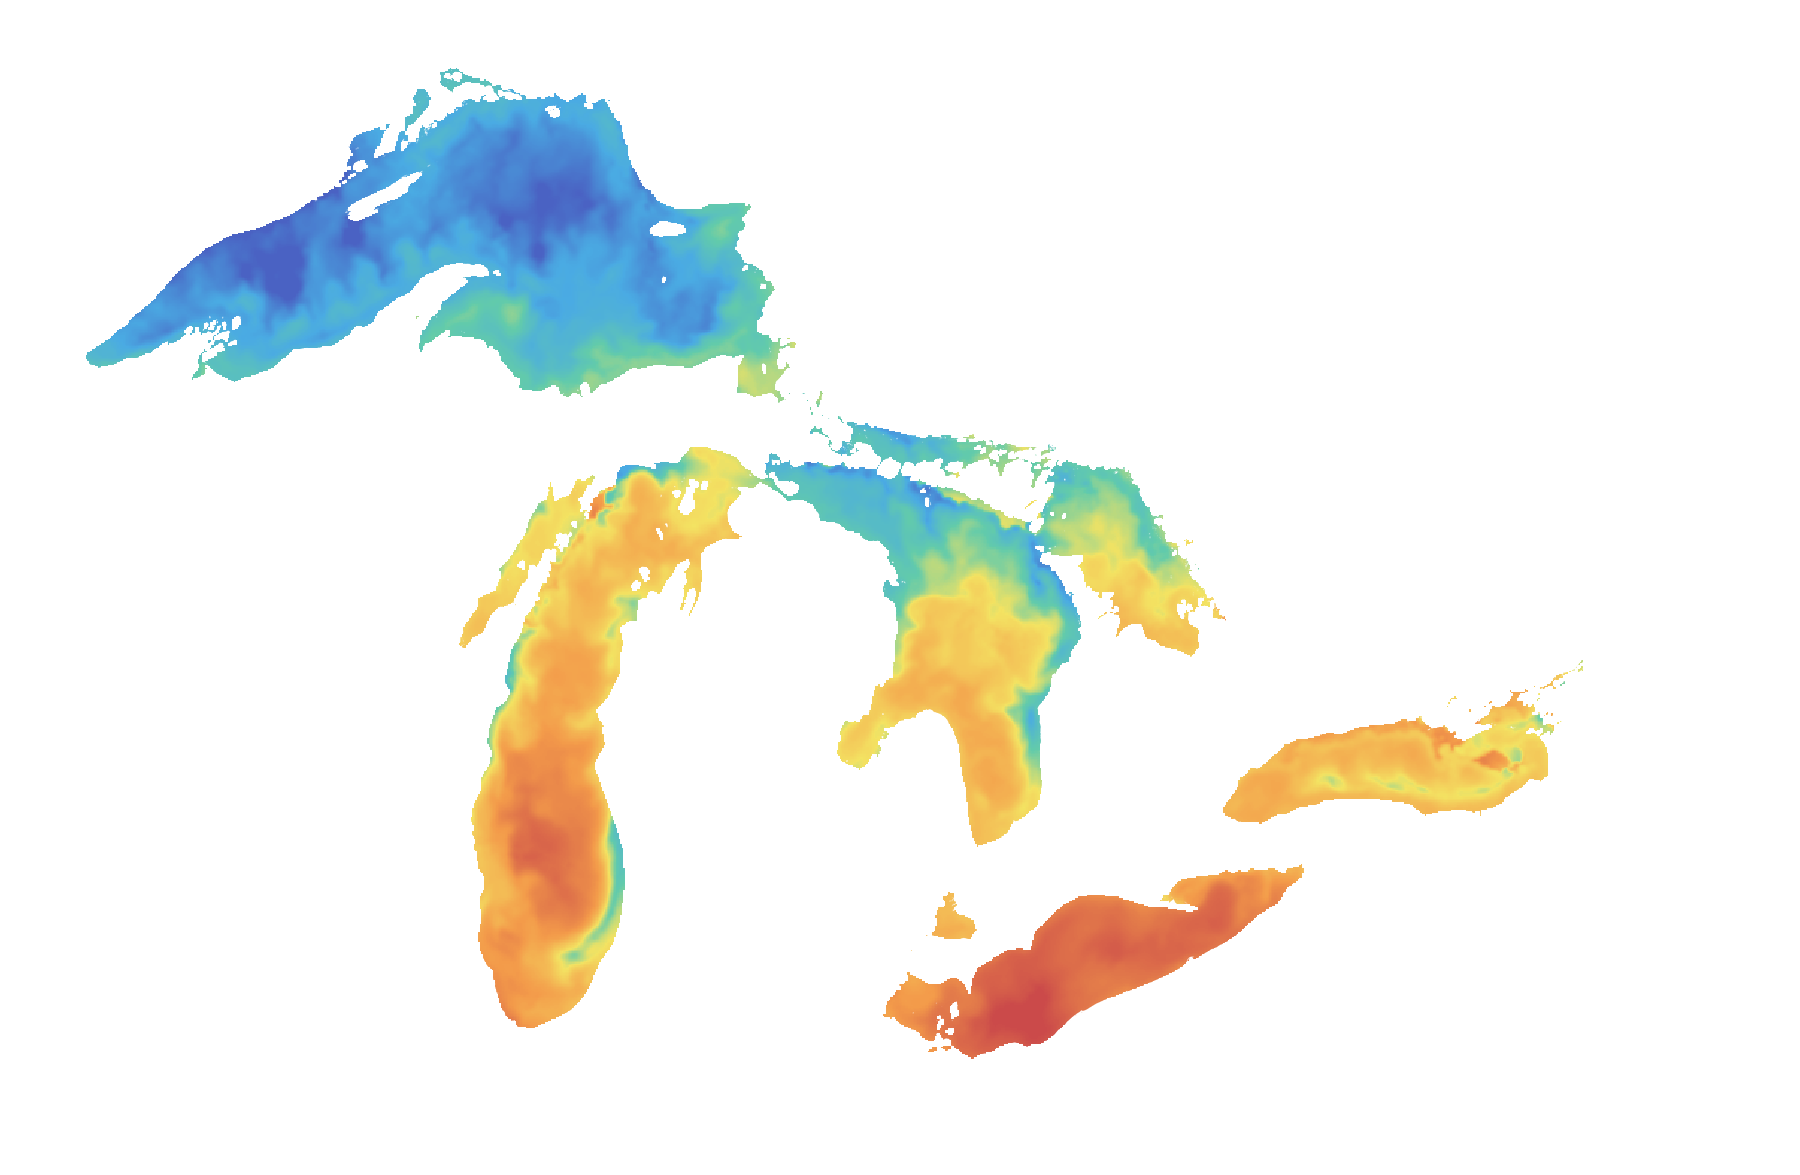
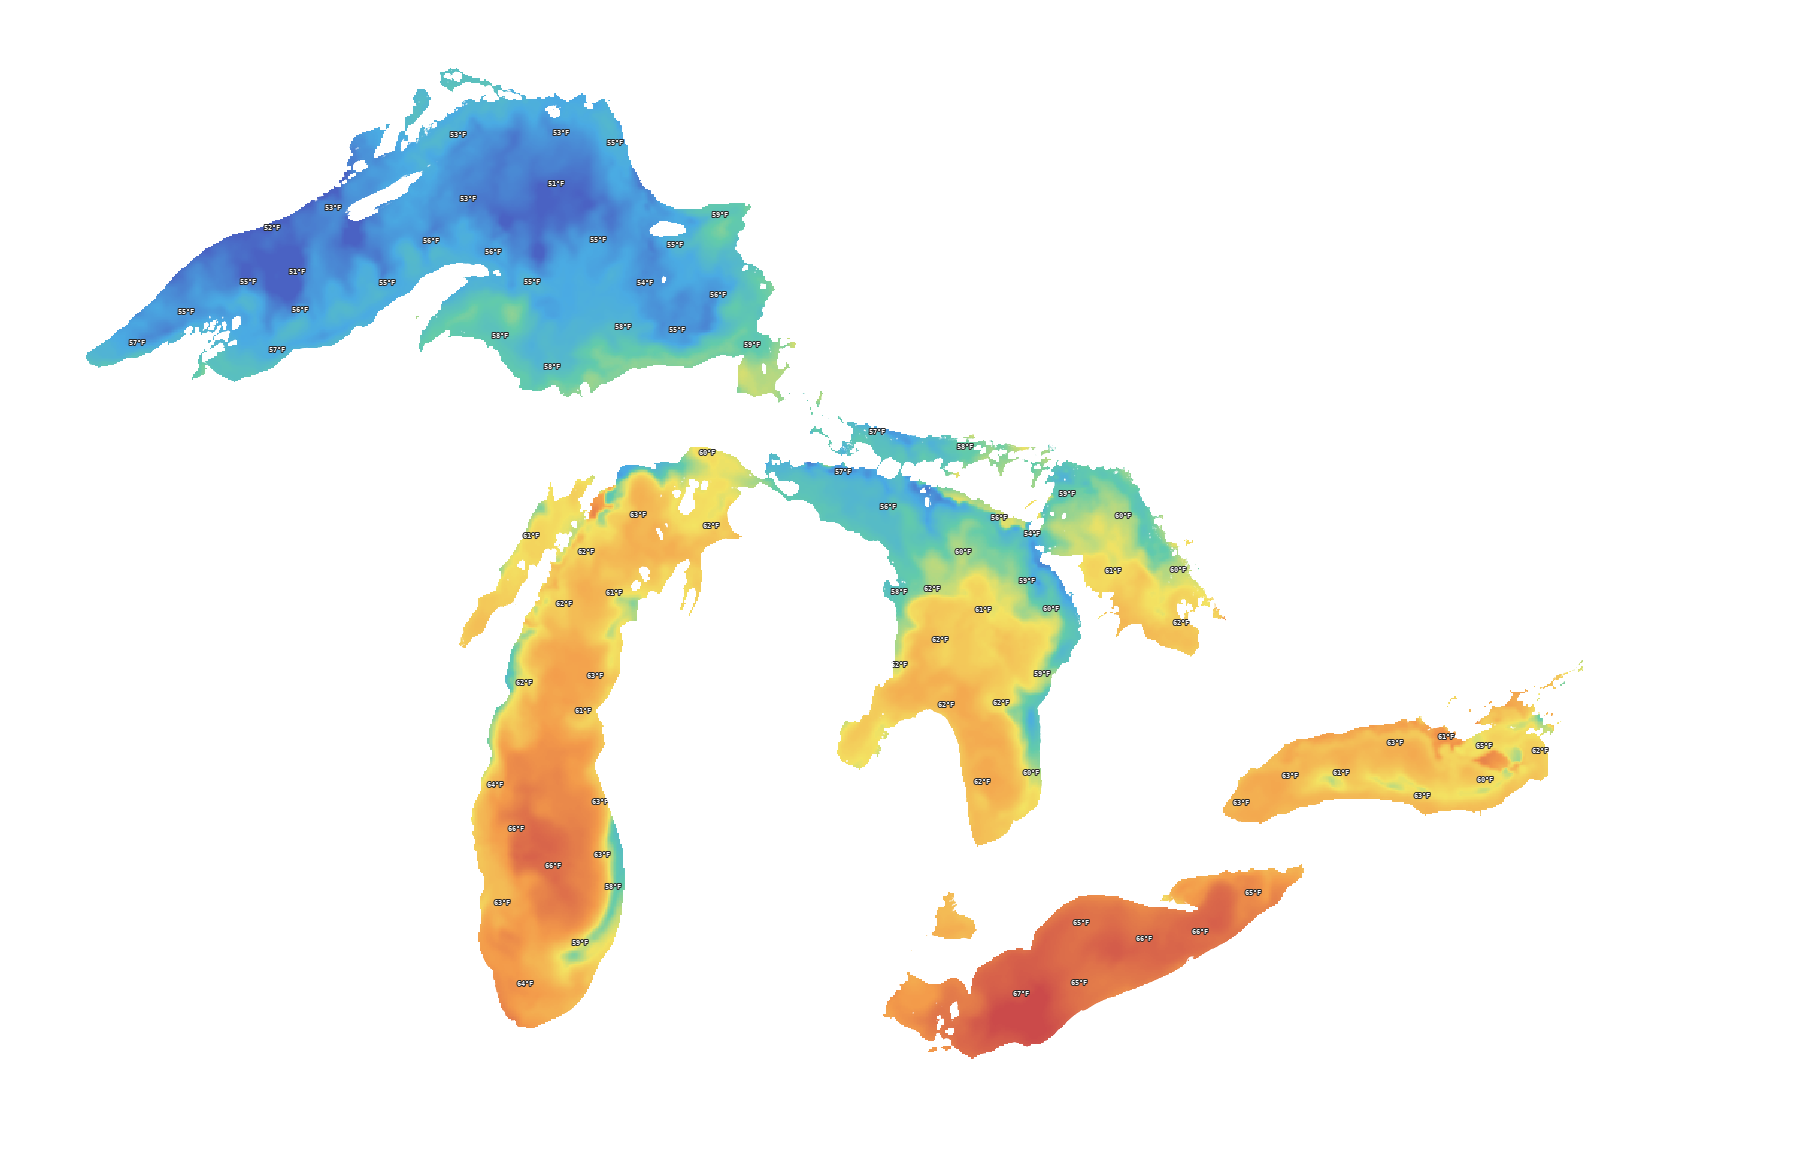
Water temperature: persist labeled raster + shoreline-clipped glyphs

Changed region(s): [[0.56, 0.4902, 0.5911, 0.5209]]

diff --git a/scripts/build_water_temperature.py b/scripts/build_water_temperature.py
@@ -374,6 +374,15 @@ def _build(info, raw_path, source_id, preview_dir=None, font_size=7,
     if n_tpri + n_tfill < 20:
         print(f"[{PRODUCT}] VALIDATION FAILED: too few temp labels.")
         return 2
+    # render_field saved the BASE raster before painting above: persist the
+    # labeled raster (without this the values never reach the file).
+    # Glyphs near shore can spill 1-2 px onto land: clip alpha back to
+    # the shared shoreline (same as the wave layer).
+    from geospatial_utils import save_png as _sp2, load_watermask as _lwm
+    _wm = _lwm()
+    rgba[:, :, 3] = np.round(
+        rgba[:, :, 3].astype(np.float32) * _wm).astype(np.uint8)
+    _sp2(rgba, os.path.join(stage_prod, "current.png"))
     if preview_dir is not None:
         import os as _os
         from geospatial_utils import save_png as _sp
